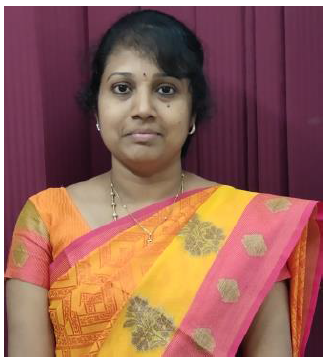
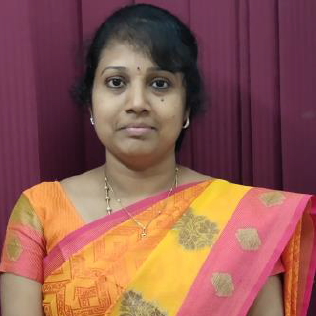
Fix staff image animation

diff --git a/index.css b/index.css
@@ -258,7 +258,6 @@ ul.drop{
     min-width: 200px;
     min-height: 250px;
     width: 100%;
-    padding-top: 100%; 
     position: relative;
     overflow: hidden;
     box-shadow: 0px 2px 5px rgba(0,0,0,0.3);
@@ -268,56 +267,44 @@ ul.drop{
   .container1:hover {
     box-shadow: 1px 2px 10px rgba(0,0,0,0.5);
   }
-  
+
   .img-container1 {
-    background-color: #000;
-    position: absolute;
-    left: 0;
-    top: 0;
-    height: 100%;
+    position: relative;
+    width: 100%; /* Adjust the width as needed */
+    overflow: hidden;
+}
+
+/* Style the image */
+.img-container1 img {
     width: 100%;
-    transition: transform 0.3s ease-out;
-    z-index: 2;
-  }
-  
-  .img-container1:hover {
-      cursor: pointer;
-  }
-  
-  .container1:hover .img-container1 {
-      transform: translateY(-100px);
-  }
-  
-  .img-container1 > img {
-    height: 100%;
-    width: 100%;
-    transition: opacity 0.3s ease-out;
-  }
-  
-  .container1:hover > .img-container1 > img {
-    opacity: 0.5;
-  }
-  .user-info {
+    height: auto;
+    transition: transform 0.3s ease;
+}
+
+/* Style the hover effect */
+.img-container1:hover img {
+    transform: scale(1.1); /* You can adjust the scaling factor as needed */
+}
+
+/* Style the hover text */
+.user-info {
     position: absolute;
     bottom: 0;
     left: 0;
-    background-color: #FFF;
-    height: 100px;
     width: 100%;
-    box-sizing: border-box;
-    padding: 5px;
-    text-align: center
-  }
+    padding: 10px;
+    background-color: rgba(255, 255, 255, 0.8); /* Adjust the transparency (fourth value) as needed */
+    text-align: center;
+    transition: opacity 0.3s ease;
+    opacity: 0; /* Initially, hide the hover text */
+}
+
+/* Show the hover text on hover */
+.container1:hover .user-info {
+    opacity: 1;
+}
   
-  .user-info > h2 {
-    padding: 0;
-    margin: 5px 0;
-  }
   
-  .user-info > span {
-    color: #262626;
-    padding:5px;
-  }
 
 /* If the screen size is 601px wide or more, set the font-size of <div> to 80px */
 @media screen and (min-width: 601px) {
@@ -1000,3 +987,39 @@ And also over write left & right padding with internal stylesheet for col*/
   transition: background 0s;
 }
 /* RIPPLE END */
+
+.image-container {
+    position: relative;
+    width: 100%; /* Adjust the width as needed */
+    overflow: hidden;
+}
+
+/* Style the image */
+.image-container img {
+    width: 100%;
+    height: auto;
+    transition: transform 0.3s ease;
+}
+
+/* Style the hover effect */
+.image-container:hover img {
+    transform: scale(1.1); /* You can adjust the scaling factor as needed */
+}
+
+/* Style the hover text */
+.hover-text {
+    position: absolute;
+    bottom: 0;
+    left: 0;
+    width: 100%;
+    padding: 10px;
+    background-color: rgba(255, 255, 255, 0.8); /* Adjust the transparency (fourth value) as needed */
+    text-align: center;
+    transition: opacity 0.3s ease;
+    opacity: 0; /* Initially, hide the hover text */
+}
+
+/* Show the hover text on hover */
+.container1:hover .hover-text {
+    opacity: 1;
+}
